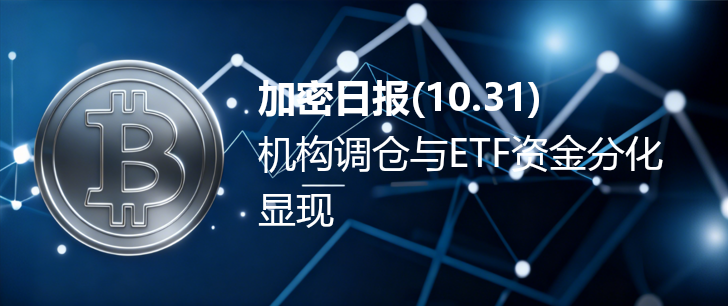
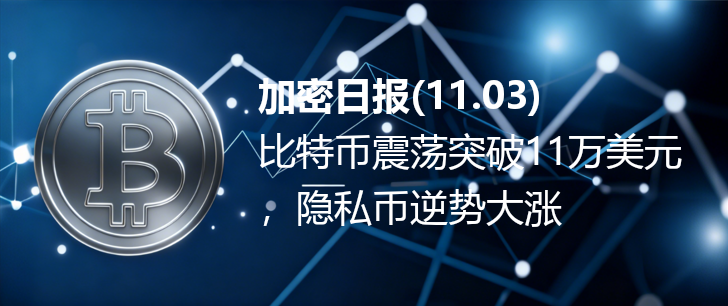
daily_news

Changed region(s): [[0.3324, 0.4412, 0.9368, 0.5588], [0.3626, 0.6176, 0.7857, 0.7647], [0.3324, 0.2353, 0.7555, 0.3824]]

diff --git a/files/latest_summary_cleaned.md b/files/latest_summary_cleaned.md
@@ -1,17 +1,10 @@
-### 一、机构交易与资产转换动态
-1. Jump Crypto将大量SOL换仓为BTC，向OTC平台存入110万枚SOL，并将2.05亿美元SOL转入Galaxy Digital，同时收到2455枚BTC。
-2. SpaceX再次转移281枚比特币，目前持有约8285枚BTC，为全球第四大私人企业比特币持有方。
-
-### 二、加密ETF资金流动数据
-1. Bitcoin、Ether ETF遭遇大量资金外流，而Solana表现亮眼，市场资金流向出现分化。
-2. 10支比特币ETF单日净流出3693枚BTC（约3.99亿美元），9支以太坊ETF净流入5135枚ETH（约1951万美元），ETF资金流动呈现明显差异。
-
-### 三、金融机构支持加密相关产品
-1. 北欧最大银行Nordea宣布允许客户交易与比特币锚定的合成ETP产品，该产品由CoinShares开发，面向寻求另类资产敞口的成熟投资者，反映欧洲加密监管环境成熟及市场需求增长。
-
-### 四、上市公司市场动态
-1. Core Scientific股价因90亿美元的CoreWeave合并被拒上涨5%，市场对其后续发展产生波动。
-2. 研究机构Bernstein给予SharpLink Gaming“跑赢大盘”评级，并设定2026年底目标价24美元，较当前股价约有75%上涨空间。
-
-### 五、执法行动与加密犯罪相关新闻
-1. 警方通过卧底行动追回价值70万美元的比特币矿机，涉及加密犯罪相关执法事件。
+### 一、比特币市场动态与价格分析
+1. 比特币上周价格波动显著，受贸易协议传闻、美联储政策不确定性及机构资金影响，周内价格区间达$109,713-$111,129，波动超1万美元，最终在11万美元附近震荡。
+2. 技术面显示，比特币在$108,000附近存在关键支撑，$114,000附近为主要阻力位，短期动能混合，长期基本面被看好，机构资金（如现货ETF流入）持续推动价格在11万美元以上交易。
+3. 分析师指出，比特币正经历类似IPO的阶段，老持币者逐步退出，新投资者在低位积累，市场集中度降低，预计该阶段持续6-18个月，完成后波动性或降低。
+### 二、隐私币与山寨币表现
+1. 隐私币上周表现显著优于主流加密市场，部分币种录得两位数涨幅，如Zcash（ZEC）升至七年多新高（$443），超越Monero成为市值最高隐私币；Railgun（RAIL）、Dash（DASH）分别上涨87%，GAME、ZK、DLC、PIPPIN等涨幅超80%。
+2. 主流山寨币整体分化，仅BCH（9%）和HYPE（2%）录得周内净涨幅，其余多数亏损1.5%-7%，COAI、GIGGLE为最大输家，跌幅分别达79.1%和62.2%。
+### 三、行业公司与监管政策动态
+1. 行业公司动态方面，Bitwise推出的Solana ETF在2025年推出中表现突出，首日及次日交易量远超预期；西联汇款宣布推进稳定币和数字资产战略；巴西比特币公司OranjeBTC在股价下跌期间回购99.6万股普通股，以折扣价增加股东对比特币曝光。
+2. 监管与政策方面，美联储主席鲍威尔称12月降息非定数，导致比特币价格下跌；美国总统特朗普攻击鲍威尔，称其将在数月内离职并更换新人，引发市场对货币政策变化的关注。

diff --git a/files/latest_summary.md b/files/latest_summary.md
@@ -1,0 +1,28 @@
+### 一、比特币市场动态与价格分析
+**总结**：
+1. 比特币上周价格波动显著，受贸易协议传闻、美联储政策不确定性及机构资金影响，周内价格区间达$109,713-$111,129，波动超1万美元，最终在11万美元附近震荡。
+2. 技术面显示，比特币在$108,000附近存在关键支撑，$114,000附近为主要阻力位，短期动能混合，长期基本面被看好，机构资金（如现货ETF流入）持续推动价格在11万美元以上交易。
+3. 分析师指出，比特币正经历类似IPO的阶段，老持币者逐步退出，新投资者在低位积累，市场集中度降低，预计该阶段持续6-18个月，完成后波动性或降低。
+**参考**：
+- [波动性主导：BTC波动$10K，隐私币逆市飙升](https://news.bitcoin.com/zh/bodongxingchengwang-btc-bodong-10k-er-yinsamibi-nishi-biaosheng/)
+- [比特币价格观察：当阻力位坚守时，多头试探突破](https://news.bitcoin.com/zh/bi-te-bi-jia-ge-guan-cha-dang-zu-li-wei-jian-shou-shi-duo-tou-shi-tan-tu-po/)
+- [分析师：比特币正经历IPO 类似的阶段](https://www.binance.com/en-IN/square/post/11-02-2025-ipo-31823266982793)
+- [$BTC 交易价格超过$110000 — 机构动能增强](https://www.binance.com/zh-CN/square/post/31835622305050)
+
+
+### 二、隐私币与山寨币表现
+**总结**：
+1. 隐私币上周表现显著优于主流加密市场，部分币种录得两位数涨幅，如Zcash（ZEC）升至七年多新高（$443），超越Monero成为市值最高隐私币；Railgun（RAIL）、Dash（DASH）分别上涨87%，GAME、ZK、DLC、PIPPIN等涨幅超80%。
+2. 主流山寨币整体分化，仅BCH（9%）和HYPE（2%）录得周内净涨幅，其余多数亏损1.5%-7%，COAI、GIGGLE为最大输家，跌幅分别达79.1%和62.2%。
+**参考**：
+- [波动性主导：BTC波动$10K，隐私币逆市飙升](https://news.bitcoin.com/zh/bodongxingchengwang-btc-bodong-10k-er-yinsamibi-nishi-biaosheng/)
+
+
+### 三、行业公司与监管政策动态
+**总结**：
+1. 行业公司动态方面，Bitwise推出的Solana ETF在2025年推出中表现突出，首日及次日交易量远超预期；西联汇款宣布推进稳定币和数字资产战略；巴西比特币公司OranjeBTC在股价下跌期间回购99.6万股普通股，以折扣价增加股东对比特币曝光。
+2. 监管与政策方面，美联储主席鲍威尔称12月降息非定数，导致比特币价格下跌；美国总统特朗普攻击鲍威尔，称其将在数月内离职并更换新人，引发市场对货币政策变化的关注。
+**参考**：
+- [Bitwise 的 Solana ETF 主导2025 年的推出，Powell 评论后比特币下跌，以及更多— 每周综述](https://news.bitcoin.com/zh/bitwise-de-solana-etf-zhudao-2025-nian-de-tuichu-powell-pinglunhou-bitebi-xiadie-yi-ji-gengduo-meizhou-zongshu/)
+- [巴西比特币公司OranjeBTC在股价下跌期间回购股份](https://news.bitcoin.com/zh/baxi-bitebi-gongsi-oranjebtc-zai-gujia-xiadie-qijian-huigou-gufen/)
+- [$BTC交易价格超过$110000 — 机构动能增强](https://www.binance.com/zh-CN/square/post/31835622305050)
